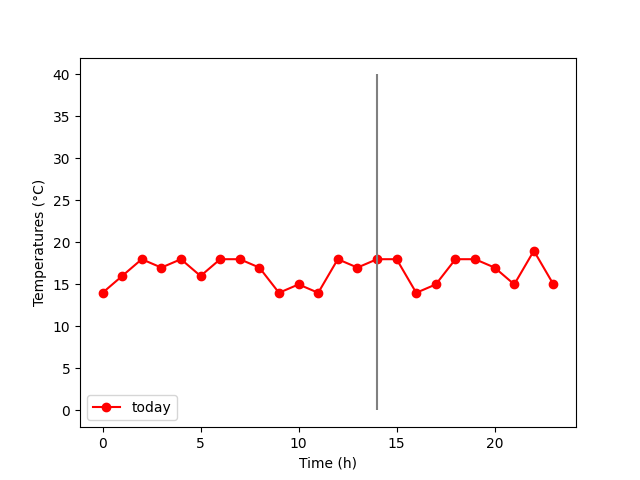
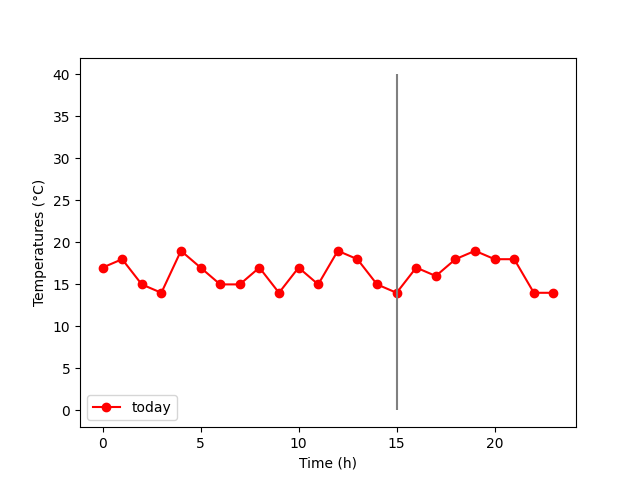
a

Changed region(s): [[0.4375, 0.5, 0.875, 0.625], [0.1562, 0.5, 0.4062, 0.625]]

diff --git a/mysite/polls/visualizer.py b/mysite/polls/visualizer.py
@@ -29,10 +29,9 @@ from dateutil.relativedelta import relativedelta
 #        (forecastData, Rainpercent, Wind)
 
 
-# def aa() :
-#     a = [float(i[3]) for i in forecastData.objects.filter(fcstDate='20240417').values_list()]
-#     a = a[0]
-#     return a
+def q() :
+    a = [float(i[3]) for i in forecastData.objects.filter(fcstDate='20240417').values_list()]
+    return a
 
 
 def date_to_str( x ):
@@ -65,7 +64,7 @@ def Forecast_chart():
     graph_path = ''
     plt.savefig('static/graphs/temp_graph.png', format='png')
     plt.show()
-# Forecast_chart()
+Forecast_chart()
 
 def Rainpercents_chart():
     rainf = np.random.randint(0,4, size=24)
@@ -83,7 +82,7 @@ def Rainpercents_chart():
 
     plt.savefig('static/graphs/rain_graph.png', format='png')
     plt.show()
-# Rainpercents_chart()
+Rainpercents_chart()
 
 def Winds_chart():
     winds = np.random.randint(1, 7, size=24)
@@ -102,6 +101,6 @@ def Winds_chart():
     plt.savefig('static/graphs/wind_graph.png', format='png')
     plt.show()
 
-# Winds_chart()
+Winds_chart()
 
 # %%

diff --git a/mysite/polls/views.py b/mysite/polls/views.py
@@ -3,7 +3,7 @@ from django.http import HttpResponse
 from .utils import today_weather_data, yesterday_weather_data
 from django.shortcuts import render
 from django.views.decorators.csrf import csrf_exempt
-from .visualizer import *
+from .visualizer import Forecast_chart
 import matplotlib.pyplot as plt
 # Create your views here.
 
@@ -41,6 +41,7 @@ def fetch_weather(request): #어제꺼부터 받아와야 데이터가 꼬이지
     return HttpResponse(answer)
     
 def graph(request):
+    Forecast_chart()
     context = {'place': '서울'}
     # Forecast_chart()
 
